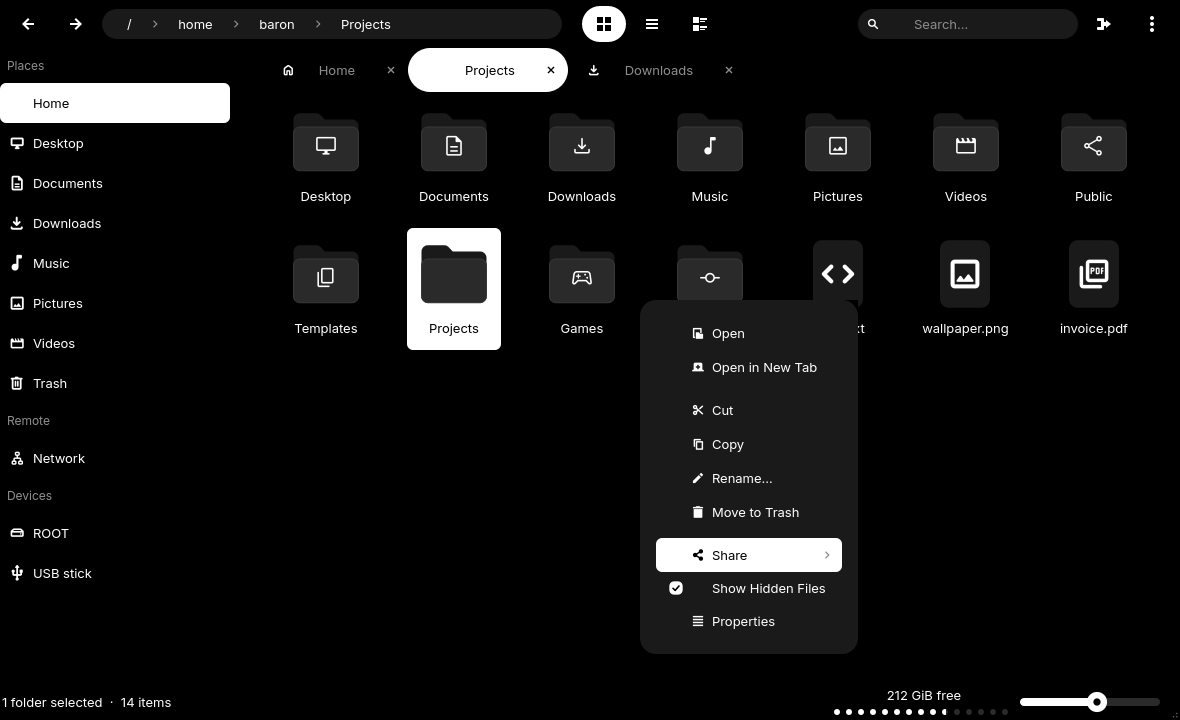
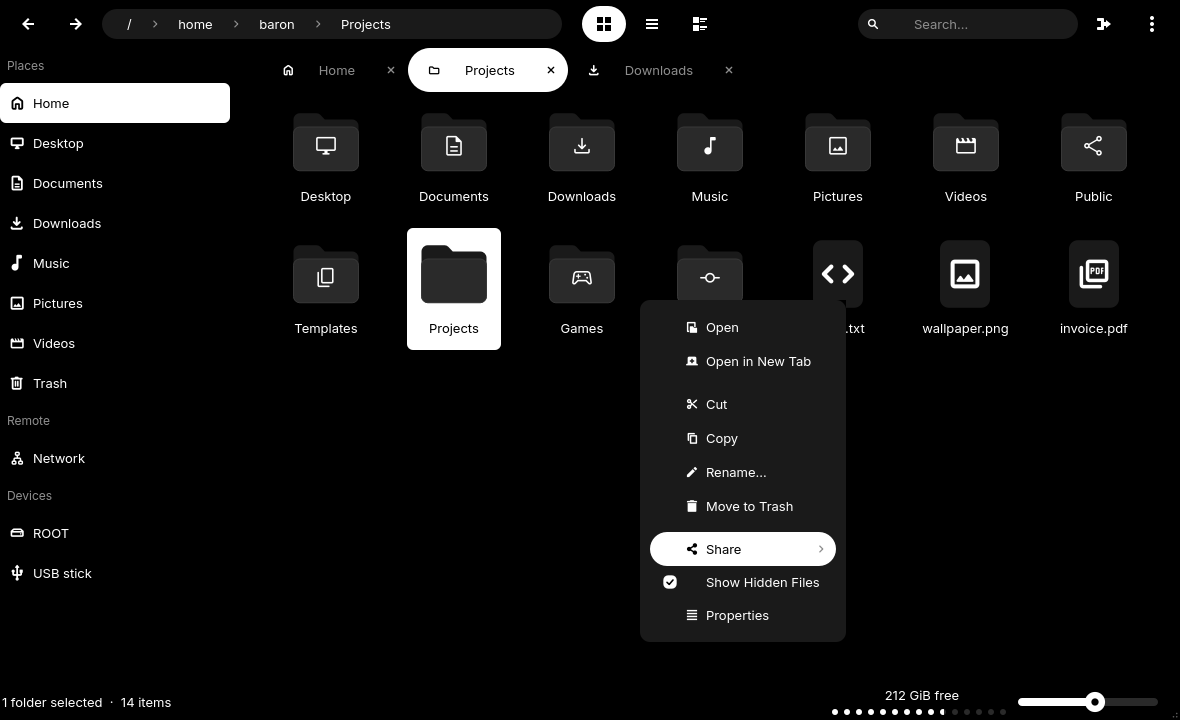
qt: Kvantum round 4

diff --git a/kvantum/gen_kvantum.py b/kvantum/gen_kvantum.py
@@ -335,7 +335,7 @@ vertical_spin_indicators=false
 spin_button_width=24
 animate_states=true
 button_contents_shift=false
-layout_spacing=6
+layout_spacing=8
 layout_margin=8
 submenu_overlap=0
 submenu_delay=150
@@ -544,7 +544,7 @@ interior.element=combo
 indicator.element=carrow
 text.press.color={WHITE}
 text.toggle.color={WHITE}
-text.margin.left=12
+text.margin.left=11
 text.margin.right=6
 
 [ToolbarComboBox]
@@ -760,10 +760,10 @@ interior.element=scrollbargroove
 inherits=PanelButtonCommand
 frame.element=menu
 interior.element=menu
-frame.top=16
-frame.bottom=16
-frame.left=16
-frame.right=16
+frame.top=10
+frame.bottom=10
+frame.left=10
+frame.right=10
 frame.expansion=0
 text.press.color={WHITE}
 text.toggle.color={WHITE}
@@ -778,7 +778,7 @@ frame.top=6
 frame.bottom=6
 frame.left=6
 frame.right=6
-frame.expansion=0
+frame.expansion=48
 text.normal.color={WHITE}
 text.focus.color={BLACK}
 text.press.color={BLACK}

diff --git a/tools/qtwidgets_preview.py b/tools/qtwidgets_preview.py
@@ -355,8 +355,9 @@ def gallery():
     w.resize(1000, 700)
     g = QGridLayout(w)
     g.setContentsMargins(24, 24, 24, 24)
-    g.setHorizontalSpacing(24)
-    g.setVerticalSpacing(14)
+    # leave the grid's spacing to the style: unequal h/v spacing makes the nested
+    # row layouts inherit -1 and collapse to 0px gaps (a harness bug, not the theme's)
+    g.setColumnMinimumWidth(1, 24)
 
     def label(t):
         lab = QLabel(t.upper())
@@ -497,7 +498,7 @@ def gallery():
     row.addWidget(tip_anchor)
     col.addWidget(label("Scrollbars · tooltip"))
     col.addLayout(row)
-    g.addLayout(col, 0, 1)
+    g.addLayout(col, 0, 2)
 
     w.show()
     app.processEvents()
